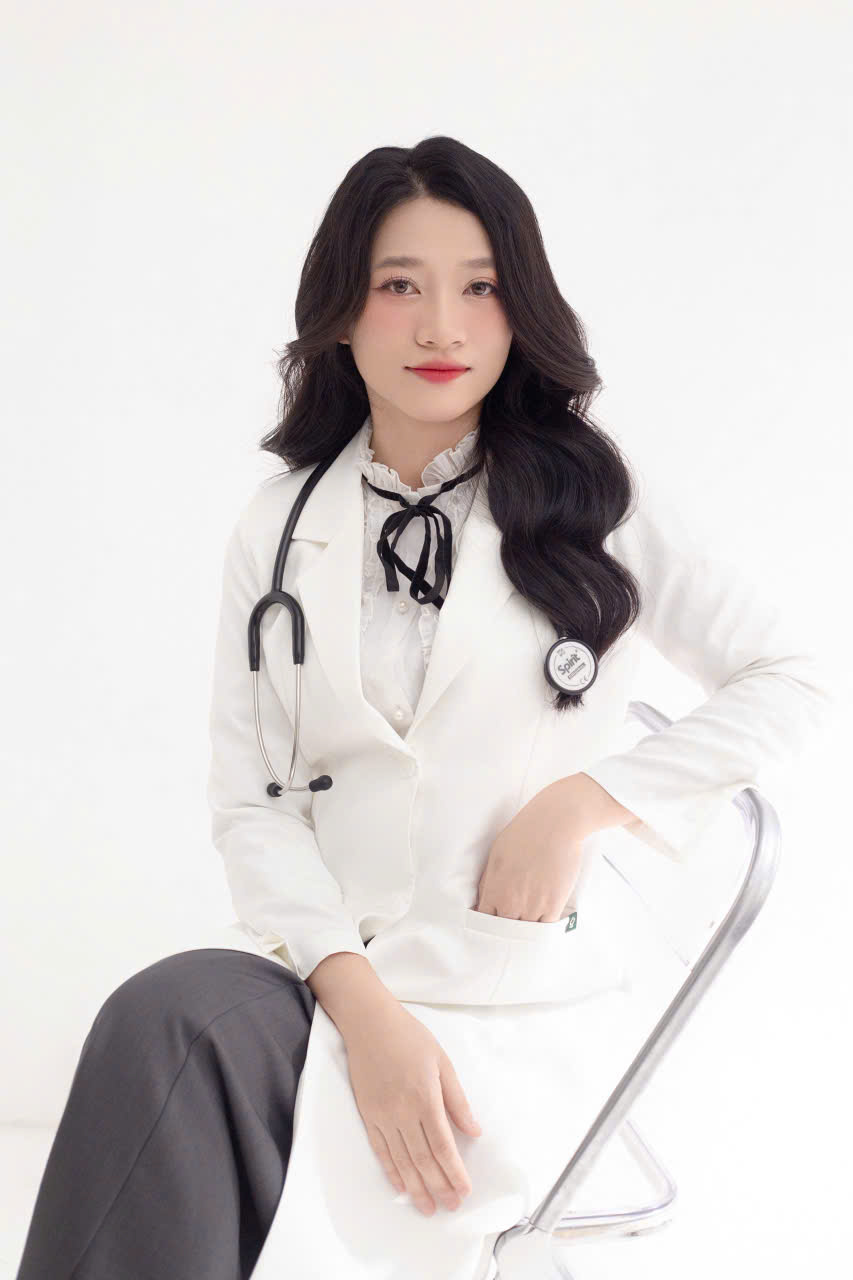
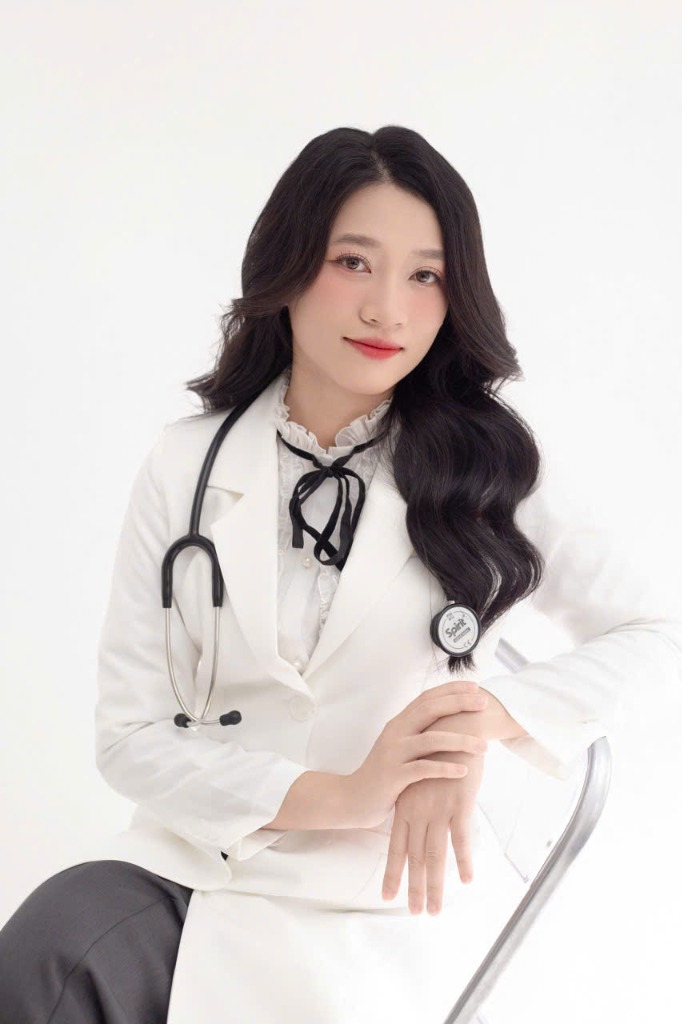
Cap nhat hinh chan dung BS Thanh Nhan tren toan bo cac trang test

Changed region(s): [[0.0, 0.0938, 0.9545, 1.0], [0.5543, 0.9688, 0.585, 1.0], [0.4003, 0.9688, 0.4311, 1.0]]

diff --git a/test-brs.html b/test-brs.html
@@ -147,6 +147,20 @@
       </div>
     </div>
 
+
+    <!-- NGƯỜI ĐỒNG HÀNH CÙNG BẠN -->
+    <div style="background:var(--card);border:1px solid var(--line);border-radius:18px;box-shadow:0 8px 30px rgba(20,50,74,.06);overflow:hidden;display:flex;flex-wrap:wrap;margin-top:28px;">
+      <div style="flex:1 1 180px;min-height:220px;background:var(--teal-soft);">
+        <img src="bs-thanh-nhan.jpg" alt="BS. Thanh Nhàn" style="width:100%;height:100%;object-fit:cover;object-position:center top;display:block;">
+      </div>
+      <div style="flex:2 1 280px;padding:22px 20px;">
+        <h3 style="font-size:1.15rem;font-weight:800;color:var(--navy);margin-bottom:4px;">BS. Phan Thị Thanh Nhàn</h3>
+        <div style="display:inline-block;font-size:.78rem;font-weight:700;color:var(--teal-dark);background:var(--teal-soft);padding:4px 12px;border-radius:20px;margin-bottom:10px;">Bác sĩ Chuyên khoa Tâm thần · Đồng hành cùng sức khỏe tinh thần</div>
+        <p style="font-size:.9rem;color:var(--muted);margin-bottom:10px;">Với sự thấu cảm sâu sắc và chuyên môn lâm sàng vững vàng, BS. Thanh Nhàn trực tiếp lắng nghe, giải thích kết quả sàng lọc và đồng hành cùng bạn và gia đình tìm lại sự bình an trong tâm trí.</p>
+        <p style="font-size:.86rem;color:var(--navy);font-weight:700;">📞 ĐT/Zalo: <a href="https://zalo.me/0354548939" target="_blank" style="color:var(--teal-dark);">0354.54.89.39</a> · ✉ Email: <a href="mailto:nhanthi.bs@gmail.com" style="color:var(--teal-dark);">nhanthi.bs@gmail.com</a></p>
+      </div>
+    </div>
+
     <!-- HUB NAVIGATION -->
     <div class="hub-box">
       <h3>Bộ Thang Đo Sức Khỏe Tinh Thần BS. Thanh Nhàn</h3>

diff --git a/test-isi.html b/test-isi.html
@@ -148,6 +148,20 @@
       </div>
     </div>
 
+
+    <!-- NGƯỜI ĐỒNG HÀNH CÙNG BẠN -->
+    <div style="background:var(--card);border:1px solid var(--line);border-radius:18px;box-shadow:0 8px 30px rgba(20,50,74,.06);overflow:hidden;display:flex;flex-wrap:wrap;margin-top:28px;">
+      <div style="flex:1 1 180px;min-height:220px;background:var(--teal-soft);">
+        <img src="bs-thanh-nhan.jpg" alt="BS. Thanh Nhàn" style="width:100%;height:100%;object-fit:cover;object-position:center top;display:block;">
+      </div>
+      <div style="flex:2 1 280px;padding:22px 20px;">
+        <h3 style="font-size:1.15rem;font-weight:800;color:var(--navy);margin-bottom:4px;">BS. Phan Thị Thanh Nhàn</h3>
+        <div style="display:inline-block;font-size:.78rem;font-weight:700;color:var(--teal-dark);background:var(--teal-soft);padding:4px 12px;border-radius:20px;margin-bottom:10px;">Bác sĩ Chuyên khoa Tâm thần · Đồng hành cùng sức khỏe tinh thần</div>
+        <p style="font-size:.9rem;color:var(--muted);margin-bottom:10px;">Với sự thấu cảm sâu sắc và chuyên môn lâm sàng vững vàng, BS. Thanh Nhàn trực tiếp lắng nghe, giải thích kết quả sàng lọc và đồng hành cùng bạn và gia đình tìm lại sự bình an trong tâm trí.</p>
+        <p style="font-size:.86rem;color:var(--navy);font-weight:700;">📞 ĐT/Zalo: <a href="https://zalo.me/0354548939" target="_blank" style="color:var(--teal-dark);">0354.54.89.39</a> · ✉ Email: <a href="mailto:nhanthi.bs@gmail.com" style="color:var(--teal-dark);">nhanthi.bs@gmail.com</a></p>
+      </div>
+    </div>
+
     <!-- HUB NAVIGATION -->
     <div class="hub-box">
       <h3>Bộ Thang Đo Sức Khỏe Tinh Thần BS. Thanh Nhàn</h3>

diff --git a/test-pss10.html b/test-pss10.html
@@ -151,6 +151,20 @@
       </div>
     </div>
 
+
+    <!-- NGƯỜI ĐỒNG HÀNH CÙNG BẠN -->
+    <div style="background:var(--card);border:1px solid var(--line);border-radius:18px;box-shadow:0 8px 30px rgba(20,50,74,.06);overflow:hidden;display:flex;flex-wrap:wrap;margin-top:28px;">
+      <div style="flex:1 1 180px;min-height:220px;background:var(--teal-soft);">
+        <img src="bs-thanh-nhan.jpg" alt="BS. Thanh Nhàn" style="width:100%;height:100%;object-fit:cover;object-position:center top;display:block;">
+      </div>
+      <div style="flex:2 1 280px;padding:22px 20px;">
+        <h3 style="font-size:1.15rem;font-weight:800;color:var(--navy);margin-bottom:4px;">BS. Phan Thị Thanh Nhàn</h3>
+        <div style="display:inline-block;font-size:.78rem;font-weight:700;color:var(--teal-dark);background:var(--teal-soft);padding:4px 12px;border-radius:20px;margin-bottom:10px;">Bác sĩ Chuyên khoa Tâm thần · Đồng hành cùng sức khỏe tinh thần</div>
+        <p style="font-size:.9rem;color:var(--muted);margin-bottom:10px;">Với sự thấu cảm sâu sắc và chuyên môn lâm sàng vững vàng, BS. Thanh Nhàn trực tiếp lắng nghe, giải thích kết quả sàng lọc và đồng hành cùng bạn và gia đình tìm lại sự bình an trong tâm trí.</p>
+        <p style="font-size:.86rem;color:var(--navy);font-weight:700;">📞 ĐT/Zalo: <a href="https://zalo.me/0354548939" target="_blank" style="color:var(--teal-dark);">0354.54.89.39</a> · ✉ Email: <a href="mailto:nhanthi.bs@gmail.com" style="color:var(--teal-dark);">nhanthi.bs@gmail.com</a></p>
+      </div>
+    </div>
+
     <!-- HUB NAVIGATION -->
     <div class="hub-box">
       <h3>Bộ Thang Đo Sức Khỏe Tinh Thần BS. Thanh Nhàn</h3>

diff --git a/test-dass21.html b/test-dass21.html
@@ -216,7 +216,7 @@
 <header>
   <div class="wrap nav">
     <div class="brand">
-      <span class="dot"></span>
+      <img src="bs-thanh-nhan.jpg" alt="BS. Thanh Nhàn" style="width:36px;height:36px;border-radius:50%;object-fit:cover;object-position:center top;border:2px solid var(--teal);">
       <span>BS. Nhàn<small>Tâm lý · Sức khỏe tinh thần</small></span>
     </div>
     <div style="display:flex;gap:.6rem;align-items:center;">
@@ -326,7 +326,7 @@
 <!-- VỀ BÁC SĨ -->
 <section id="bac-si">
   <div class="wrap about-grid">
-    <div class="doc-photo"><span>[ Ảnh BS. Nhàn ]</span></div>
+    <div class="doc-photo"><img src="bs-thanh-nhan.jpg" alt="BS. Thanh Nhàn" style="width:100%;height:100%;object-fit:cover;object-position:center top;display:block;"></div>
     <div>
       <span class="eyebrow">Người đồng hành cùng bạn</span>
       <h2>Bác sĩ Nhàn</h2>
@@ -401,7 +401,7 @@
 
 <footer>
   <div class="wrap foot-grid">
-    <div class="brand"><span class="dot"></span><span>BS. Nhàn<small>© 2026 · Tâm lý & Sức khỏe tinh thần</small></span></div>
+    <div class="brand"><img src="bs-thanh-nhan.jpg" alt="BS. Thanh Nhàn" style="width:32px;height:32px;border-radius:50%;object-fit:cover;object-position:center top;"><span>BS. Nhàn<small>© 2026 · Tâm lý & Sức khỏe tinh thần</small></span></div>
     <p class="crisis">Thông tin trên trang này chỉ mang tính tham khảo, <b>không thay thế cho tư vấn, chẩn đoán hay điều trị y khoa chuyên nghiệp</b>.</p>
   </div>
 </footer>
